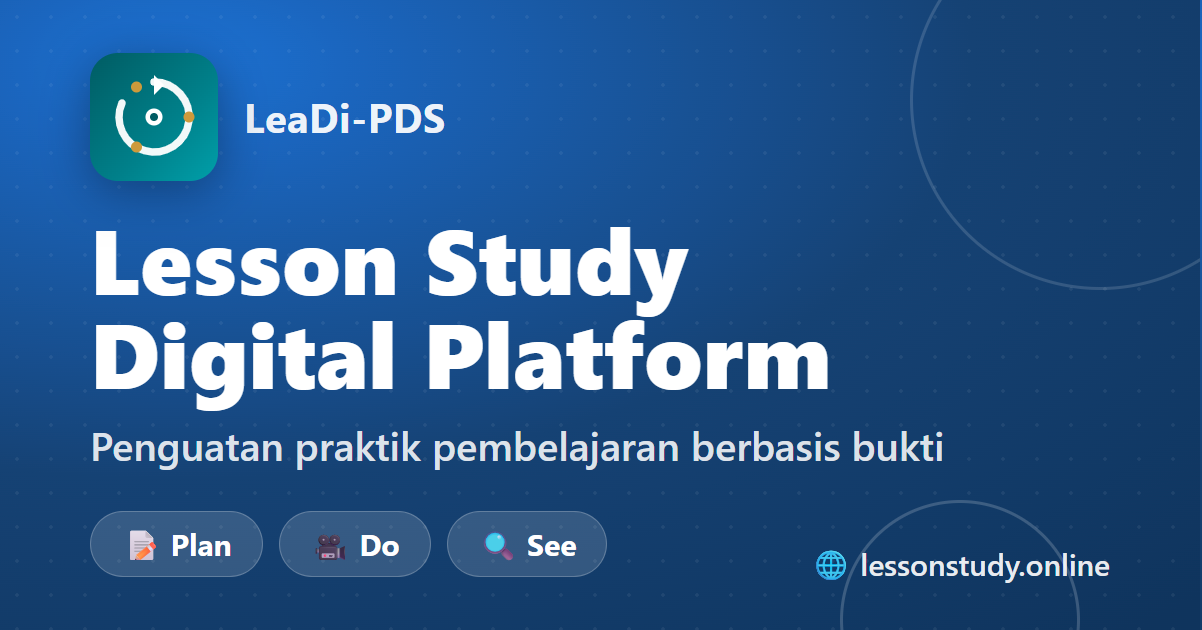
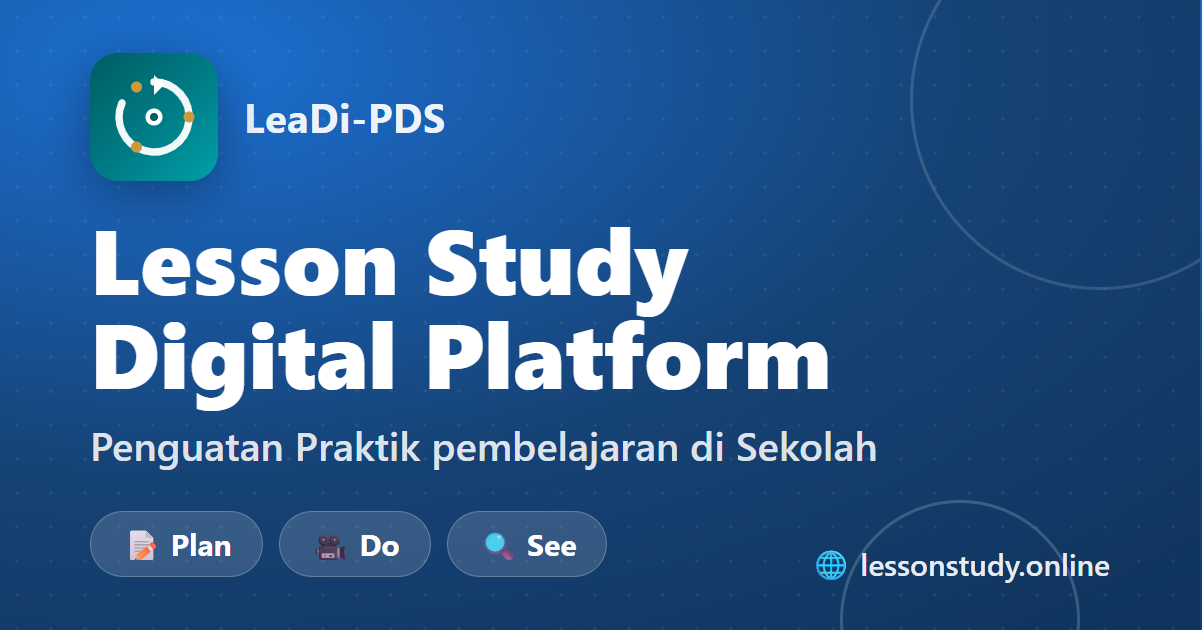
Ubah tagline menjadi 'Penguatan Praktik pembelajaran di Sekolah' (footer, meta, manifest, gambar OG)

Changed region(s): [[0.2463, 0.6635, 0.8003, 0.754]]

diff --git a/index.html b/index.html
@@ -5,12 +5,12 @@
   <meta name="viewport" content="width=device-width, initial-scale=1.0, viewport-fit=cover" />
   <meta name="theme-color" content="#1e4276" />
   <title>LeaDi-PDS — Lesson Study Digital Platform</title>
-  <meta name="description" content="LeaDi-PDS — Lesson Study Digital Platform berbasis Plan · Do · See untuk penguatan praktik pembelajaran berbasis bukti." />
+  <meta name="description" content="LeaDi-PDS — Lesson Study Digital Platform berbasis Plan · Do · See untuk Penguatan Praktik pembelajaran di Sekolah." />
   <!-- Open Graph / social media (WhatsApp, Facebook, dll.) -->
   <meta property="og:type" content="website" />
   <meta property="og:site_name" content="LeaDi-PDS" />
   <meta property="og:title" content="LeaDi-PDS — Lesson Study Digital Platform" />
-  <meta property="og:description" content="Penguatan praktik pembelajaran berbasis bukti · Plan · Do · See." />
+  <meta property="og:description" content="Penguatan Praktik pembelajaran di Sekolah · Plan · Do · See." />
   <meta property="og:url" content="https://lessonstudy.online/" />
   <meta property="og:image" content="https://lessonstudy.online/og-image.png" />
   <meta property="og:image:secure_url" content="https://lessonstudy.online/og-image.png" />
@@ -22,7 +22,7 @@
   <!-- Twitter -->
   <meta name="twitter:card" content="summary_large_image" />
   <meta name="twitter:title" content="LeaDi-PDS — Lesson Study Digital Platform" />
-  <meta name="twitter:description" content="Penguatan praktik pembelajaran berbasis bukti · Plan · Do · See." />
+  <meta name="twitter:description" content="Penguatan Praktik pembelajaran di Sekolah · Plan · Do · See." />
   <meta name="twitter:image" content="https://lessonstudy.online/og-image.png" />
   <link rel="manifest" href="manifest.webmanifest" />
   <link rel="icon" href="icon.svg" type="image/svg+xml" />
@@ -53,7 +53,7 @@
       <div class="login-or"><span>atau</span></div>
       <p class="login-alt">Belum punya akun? <button type="button" id="showRegisterBtn" class="link-btn">Ajukan gratis</button></p>
     </div>
-    <p class="login-foot">Penguatan praktik pembelajaran berbasis bukti di Sekolah</p>
+    <p class="login-foot">Penguatan Praktik pembelajaran di Sekolah</p>
   </section>
 
   <!-- ========================= APP ========================= -->

diff --git a/service-worker.js b/service-worker.js
@@ -1,5 +1,5 @@
 /* LeaDi-PDS service worker — cache statis, lewati API & uploads */
-const CACHE = 'leadi-pds-v75';
+const CACHE = 'leadi-pds-v76';
 const ASSETS = [
   './',
   './index.html',
